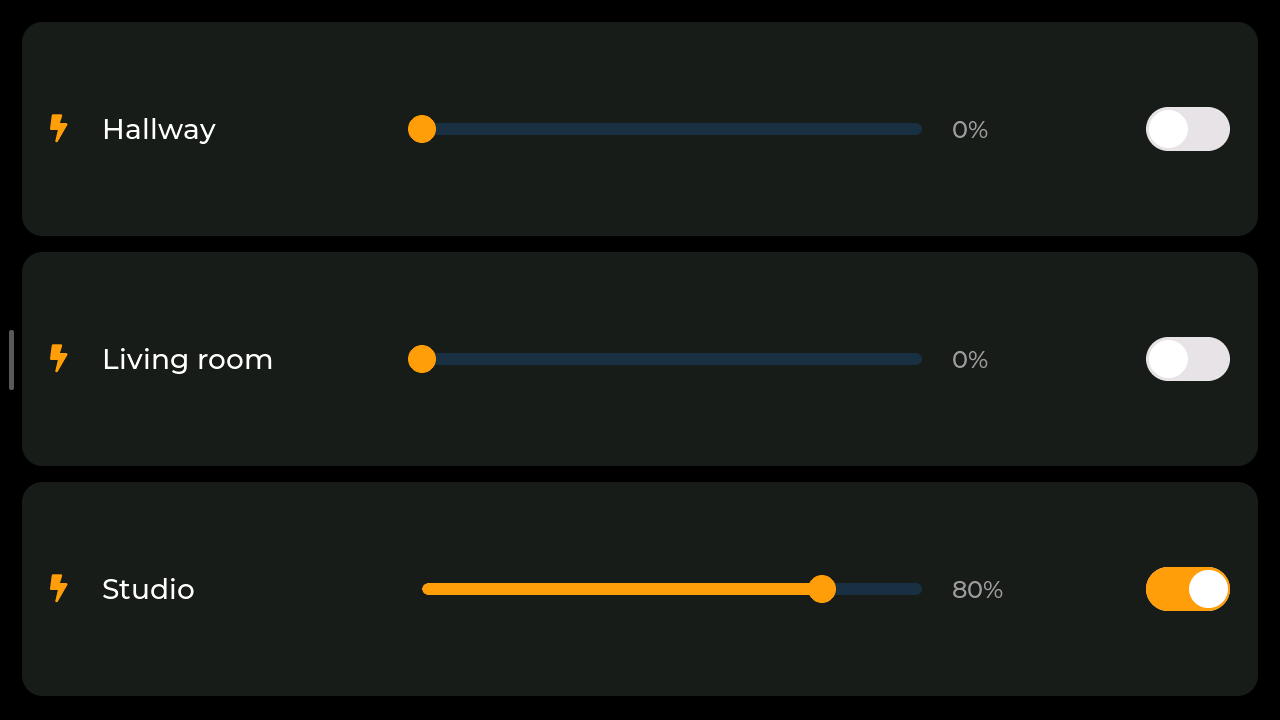
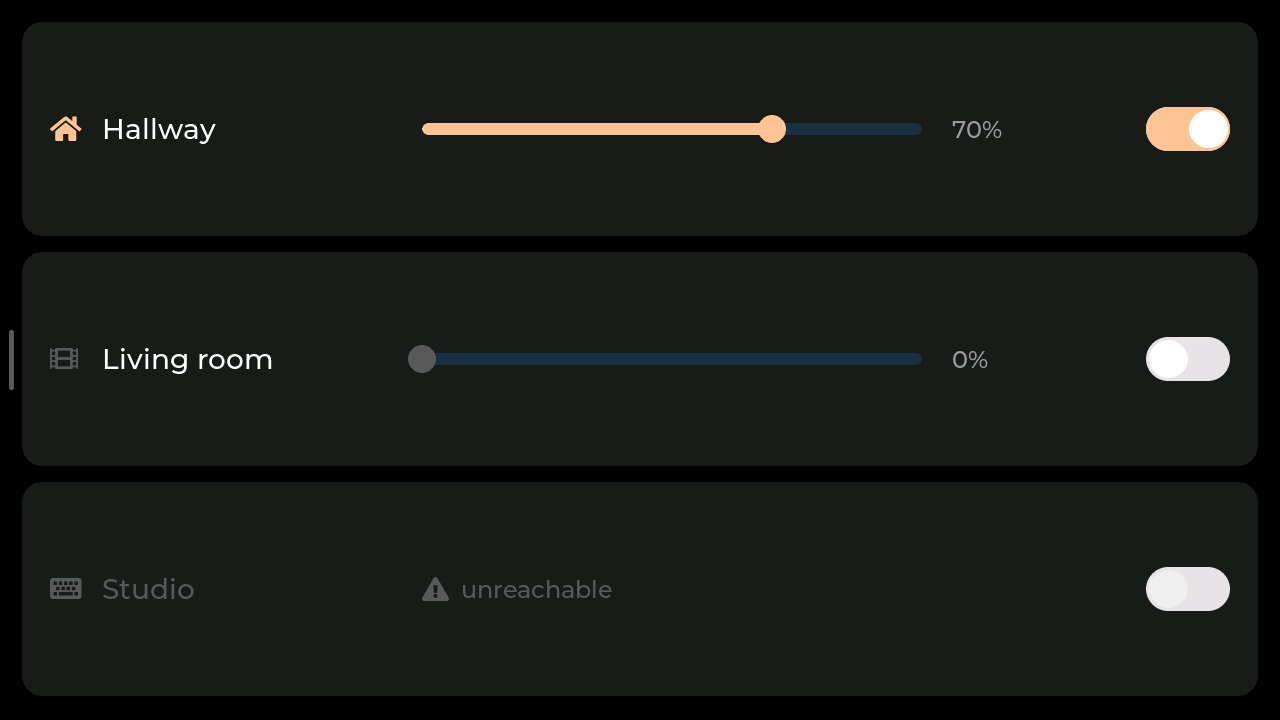
Document the polished lights screen
Claude-Session: https://claude.ai/code/session_01Ujji3M8UcKP6EpZkQfm6xy

diff --git a/README.md b/README.md
@@ -31,9 +31,13 @@ straight to the framebuffer - no X, no Wayland, no browser.
   with month/streak/vomiting stats and a recent list. Food is logged and
   listed but deliberately not marked on the grid: it happens most days and
   would colour in every cell.
-- **Lights** - one row per Philips Hue room: a toggle, a brightness slider
-  and the current level. It follows the bridge, so a lamp switched from a
-  phone or a wall switch shows up here within a second.
+- **Lights** - one row per Philips Hue room: tap anywhere on the row to
+  toggle it, drag the slider to dim. The row is tinted with the room's own
+  colour temperature, so a warm room reads warm. It follows the bridge, so
+  a lamp switched from a phone or a wall switch shows up here within a
+  second. A room whose bulbs have dropped off the Zigbee mesh says
+  *unreachable* and disables its controls, rather than showing a working
+  switch that silently does nothing.
 - **Settings** - backlight, night dim, which weekdays are medicine days, a
   reminder toggle, and buttons to export or reset the log.
 
@@ -240,7 +244,7 @@ network takes - and this Pi's network is the least reliable part of it.
 | `cat-backup` | hourly | pushes `cat_log.csv` |
 | `cat-wifi` | 2 min | bounces a wedged link |
 | `cat-dim` | at boot | holds the panel dark |
-| `cat-hue` | daemon, 2s | `hue.txt`, reads `hue.cmd` |
+| `cat-hue` | daemon, 2s state / 30s structure | `hue.txt`, reads `hue.cmd` |
 
 `cat-hue` is the one daemon rather than a timer: a light switch that reacts
 in five minutes is not a light switch. It is the same file hand-off in both
